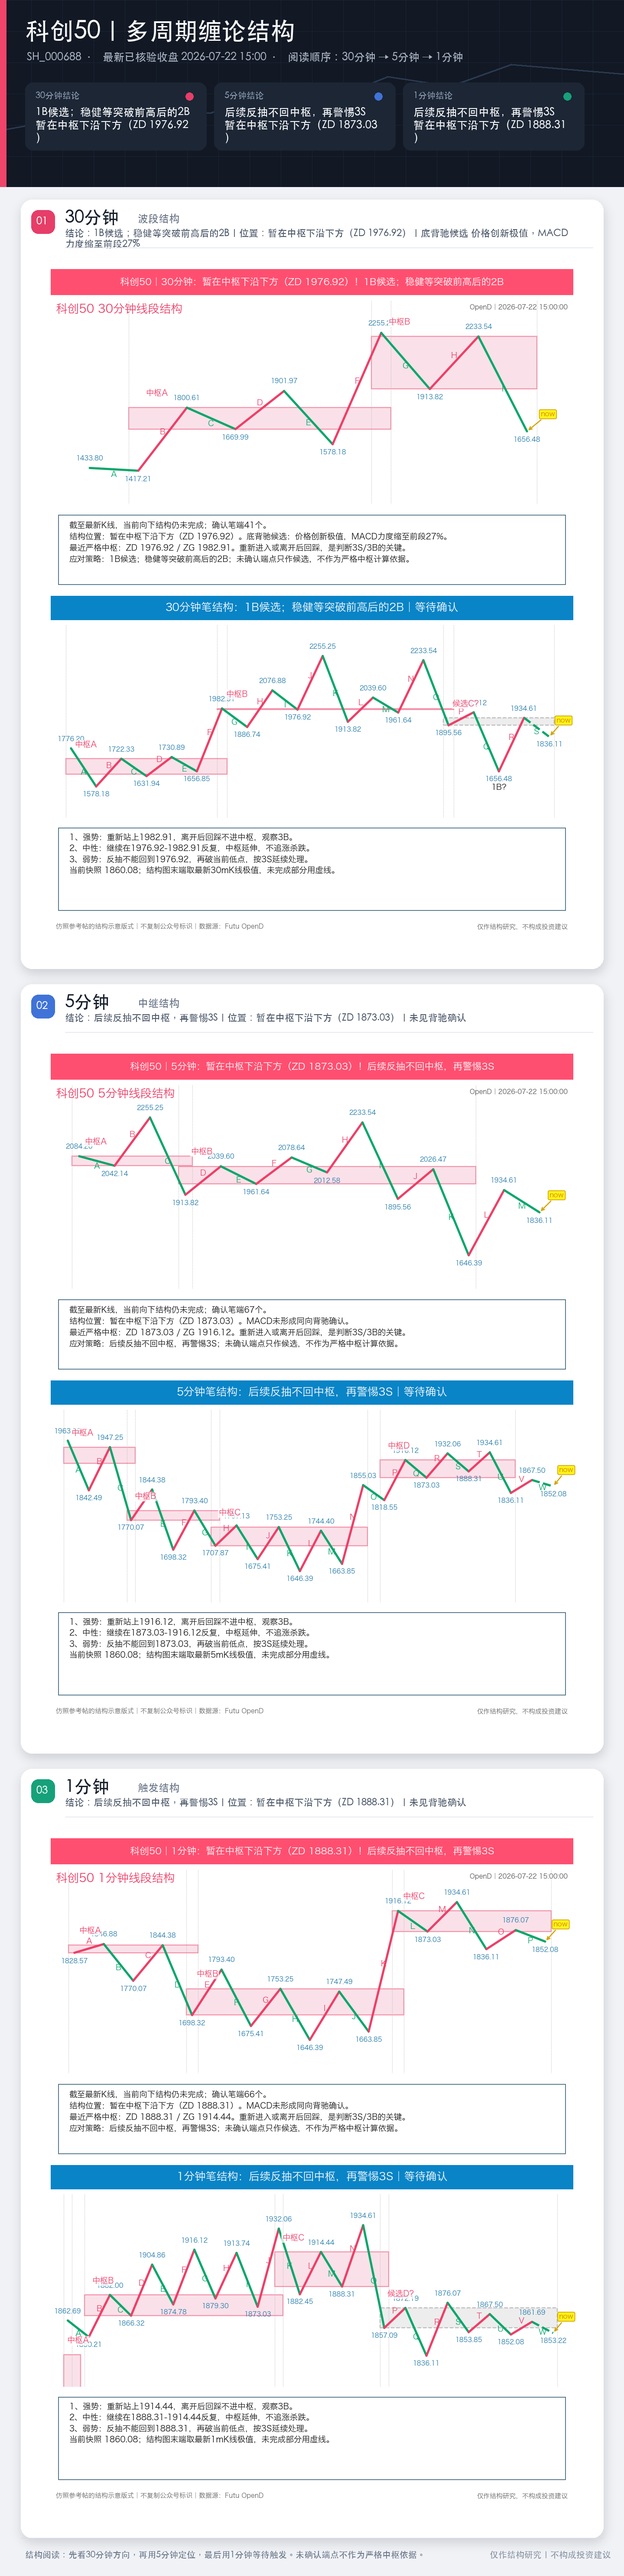
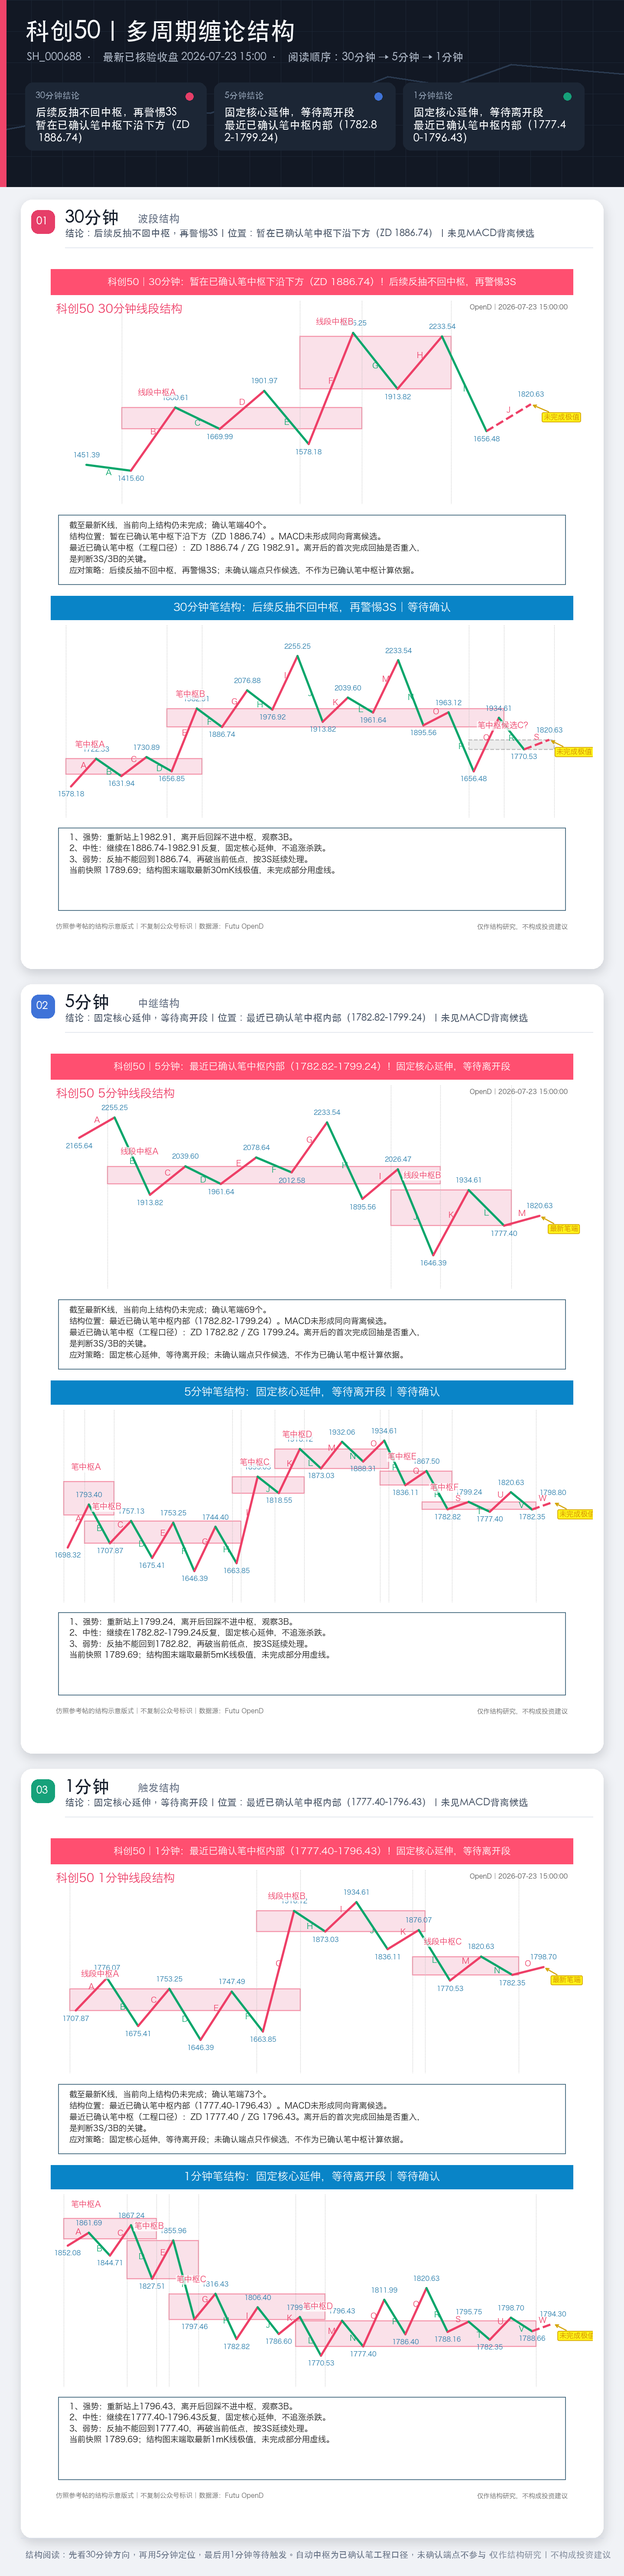
Update chanlun close review for 2026-07-23

diff --git a/chanlun/index.html b/chanlun/index.html
@@ -200,8 +200,8 @@
     <header>
       <h1>A股三指数缠论复盘</h1>
       <div class="sub">
-        <span class="badge">交易日 2026-07-22</span>
-        <span class="badge">339/339 校验通过</span>
+        <span class="badge">交易日 2026-07-23</span>
+        <span class="badge">396/396 校验通过</span>
         <span class="badge">页面每 300 秒自动刷新</span>
       </div>
     </header>
@@ -210,33 +210,33 @@
               <div class="card-head">
                 <div>
                   <h2>上证指数</h2>
-                  <p>SH.000001 · 最新已核验收盘 2026-07-22 15:00:00</p>
+                  <p>SH.000001 · 最新已核验收盘 2026-07-23 15:00:00</p>
                 </div>
                 <div class="price-box">
                   <span>收盘</span>
-                  <strong>3867.03</strong>
+                  <strong>3876.78</strong>
                 </div>
               </div>
-              <img src="SH_000001_30m_5m_1m_combined_chanlun.png?v=1784705990" alt="上证指数 合并图">
+              <img src="SH_000001_30m_5m_1m_combined_chanlun.png?v=1784792322" alt="上证指数 合并图">
               <ul class="signals">
-                <li><b>30m</b><span>1B候选；稳健等突破前高后的2B</span><em>暂在中枢上沿上方（ZG 3828.34）</em></li>
-<li><b>5m</b><span>后续回踩不进中枢，再观察3B</span><em>暂在中枢上沿上方（ZG 3820.77）</em></li>
-<li><b>1m</b><span>后续反抽不回中枢，再警惕3S</span><em>暂在中枢下沿下方（ZD 3870.36）</em></li>
+                <li><b>30m</b><span>后续回踩不进中枢，再观察3B</span><em>暂在已确认笔中枢上沿上方（ZG 3828.34）</em></li>
+<li><b>5m</b><span>MACD顶背离候选；未证明缠论S1</span><em>最近已确认笔中枢内部（3861.26-3882.21）</em></li>
+<li><b>1m</b><span>后续回踩不进中枢，再观察3B</span><em>暂在已确认笔中枢上沿上方（ZG 3869.85）</em></li>
               </ul>
               <div class="analysis">
                 <h3>当前点位分析</h3>
                 <ul>
-                  <li>30分钟当前是“1B候选；稳健等突破前高后的2B”，位置为“暂在中枢上沿上方（ZG 3828.34）”；底背驰候选：价格创新极值，MACD力度缩至前段6%，说明有反抽基础，但还不是确认买点。</li>
-                  <li>5分钟当前是“后续回踩不进中枢，再观察3B”，位置为“暂在中枢上沿上方（ZG 3820.77）”；这里的含义是暂时站在中枢上沿外侧，不等于已经确认3B。</li>
-                  <li>1分钟当前是“后续反抽不回中枢，再警惕3S”，位置为“暂在中枢下沿下方（ZD 3870.36）”；MACD未见同向背驰确认。</li>
+                  <li>30分钟当前是“后续回踩不进中枢，再观察3B”，位置为“暂在已确认笔中枢上沿上方（ZG 3828.34）”；这里的含义是暂时站在中枢上沿外侧，不等于已经确认3B。</li>
+                  <li>5分钟当前信号为“MACD顶背离候选；未证明缠论S1”，位置为“最近已确认笔中枢内部（3861.26-3882.21）”；MACD顶背离候选：价格创新极值，局部MACD面积缩至前段29%；未通过缠论背驰结构门槛。</li>
+                  <li>1分钟当前是“后续回踩不进中枢，再观察3B”，位置为“暂在已确认笔中枢上沿上方（ZG 3869.85）”；这里的含义是暂时站在中枢上沿外侧，不等于已经确认3B。</li>
                 </ul>
               </div>
               <div class="outlook">
-                <h3>下一交易日预案（2026-07-23，节假日顺延）</h3>
+                <h3>下一交易日预案（2026-07-24，节假日顺延）</h3>
                 <ul>
-                  <li>强势修复：先看 1 分钟能否继续站在 3879.21 上方，若后续回踩不进中枢，再上看 5 分钟修复位 3762.86，再强才谈 3820.77 以上的延续。</li>
-                  <li>中性震荡：若主要在 3762.86-3879.21 之间反复，就继续按修复中的箱体震荡看；未重新回到 3762.86 上方前，不把它当反转。</li>
-                  <li>弱势破位：若重新跌回 3879.21 下方且再破今日低点 3839.67，则本轮回抽视为失败，继续等新的 1B/B1；30 分钟未回到 3745.17 附近前，不按主结构修复处理。</li>
+                  <li>强势修复：先看 1 分钟能否继续站在 3869.85 上方，若后续回踩不进中枢，再上看 5 分钟修复位 3861.26，再强才谈 3882.21 以上的延续。</li>
+                  <li>中性震荡：若主要在 3861.26-3869.85 之间反复，就继续按修复中的箱体震荡看；未重新回到 3861.26 上方前，不把它当反转。</li>
+                  <li>弱势破位：若重新跌回 3869.85 下方且再破今日低点 3851.71，则本轮回抽视为失败，继续等新的 1B/B1；30 分钟未回到 3745.17 附近前，不按主结构修复处理。</li>
                 </ul>
               </div>
             </section>
@@ -244,33 +244,33 @@
               <div class="card-head">
                 <div>
                   <h2>创业板指</h2>
-                  <p>SZ.399006 · 最新已核验收盘 2026-07-22 15:00:00</p>
+                  <p>SZ.399006 · 最新已核验收盘 2026-07-23 15:00:00</p>
                 </div>
                 <div class="price-box">
                   <span>收盘</span>
-                  <strong>3566.73</strong>
+                  <strong>3575.52</strong>
                 </div>
               </div>
-              <img src="SZ_399006_30m_5m_1m_combined_chanlun.png?v=1784705990" alt="创业板指 合并图">
+              <img src="SZ_399006_30m_5m_1m_combined_chanlun.png?v=1784792321" alt="创业板指 合并图">
               <ul class="signals">
-                <li><b>30m</b><span>1B候选；稳健等突破前高后的2B</span><em>暂在中枢上沿上方（ZG 3519.68）</em></li>
-<li><b>5m</b><span>后续反抽不回中枢，再警惕3S</span><em>暂在中枢下沿下方（ZD 3641.54）</em></li>
-<li><b>1m</b><span>1B候选；稳健等突破前高后的2B</span><em>暂在中枢下沿下方（ZD 3597.17）</em></li>
+                <li><b>30m</b><span>后续回踩不进中枢，再观察3B</span><em>暂在已确认笔中枢上沿上方（ZG 3519.68）</em></li>
+<li><b>5m</b><span>固定核心延伸，等待离开段</span><em>最近已确认笔中枢内部（3553.37-3621.73）</em></li>
+<li><b>1m</b><span>固定核心延伸，等待离开段</span><em>最近已确认笔中枢内部（3564.57-3577.33）</em></li>
               </ul>
               <div class="analysis">
                 <h3>当前点位分析</h3>
                 <ul>
-                  <li>30分钟当前是“1B候选；稳健等突破前高后的2B”，位置为“暂在中枢上沿上方（ZG 3519.68）”；底背驰候选：价格创新极值，MACD力度缩至前段14%，说明有反抽基础，但还不是确认买点。</li>
-                  <li>5分钟当前是“后续反抽不回中枢，再警惕3S”，位置为“暂在中枢下沿下方（ZD 3641.54）”；MACD未见同向背驰确认。</li>
-                  <li>1分钟当前是“1B候选；稳健等突破前高后的2B”，位置为“暂在中枢下沿下方（ZD 3597.17）”；底背驰候选：价格创新极值，MACD力度缩至前段59%，说明有反抽基础，但还不是确认买点。</li>
+                  <li>30分钟当前是“后续回踩不进中枢，再观察3B”，位置为“暂在已确认笔中枢上沿上方（ZG 3519.68）”；这里的含义是暂时站在中枢上沿外侧，不等于已经确认3B。</li>
+                  <li>5分钟当前信号为“固定核心延伸，等待离开段”，位置为“最近已确认笔中枢内部（3553.37-3621.73）”；MACD未见同向背离候选。</li>
+                  <li>1分钟当前信号为“固定核心延伸，等待离开段”，位置为“最近已确认笔中枢内部（3564.57-3577.33）”；MACD未见同向背离候选。</li>
                 </ul>
               </div>
               <div class="outlook">
-                <h3>下一交易日预案（2026-07-23，节假日顺延）</h3>
+                <h3>下一交易日预案（2026-07-24，节假日顺延）</h3>
                 <ul>
-                  <li>强势修复：先看 1 分钟能否继续站在 3598.64 上方，若后续回踩不进中枢，再上看 5 分钟修复位 3641.54，再强才谈 3682.07 以上的延续。</li>
-                  <li>中性震荡：若主要在 3598.64-3641.54 之间反复，就继续按修复中的箱体震荡看；未重新回到 3641.54 上方前，不把它当反转。</li>
-                  <li>弱势破位：若重新跌回 3598.64 下方且再破今日低点 3553.37，则本轮回抽视为失败，继续等新的 1B/B1；30 分钟未回到 3387.26 附近前，不按主结构修复处理。</li>
+                  <li>强势修复：先看 1 分钟能否继续站在 3577.33 上方，若后续回踩不进中枢，再上看 5 分钟修复位 3553.37，再强才谈 3621.73 以上的延续。</li>
+                  <li>中性震荡：若主要在 3553.37-3577.33 之间反复，就继续按修复中的箱体震荡看；未重新回到 3553.37 上方前，不把它当反转。</li>
+                  <li>弱势破位：若重新跌回 3577.33 下方且再破今日低点 3538.11，则本轮回抽视为失败，继续等新的 1B/B1；30 分钟未回到 3387.26 附近前，不按主结构修复处理。</li>
                 </ul>
               </div>
             </section>
@@ -278,33 +278,33 @@
               <div class="card-head">
                 <div>
                   <h2>科创50</h2>
-                  <p>SH.000688 · 最新已核验收盘 2026-07-22 15:00:00</p>
+                  <p>SH.000688 · 最新已核验收盘 2026-07-23 15:00:00</p>
                 </div>
                 <div class="price-box">
                   <span>收盘</span>
-                  <strong>1860.08</strong>
+                  <strong>1789.69</strong>
                 </div>
               </div>
-              <img src="SH_000688_30m_5m_1m_combined_chanlun.png?v=1784705990" alt="科创50 合并图">
+              <img src="SH_000688_30m_5m_1m_combined_chanlun.png?v=1784792321" alt="科创50 合并图">
               <ul class="signals">
-                <li><b>30m</b><span>1B候选；稳健等突破前高后的2B</span><em>暂在中枢下沿下方（ZD 1976.92）</em></li>
-<li><b>5m</b><span>后续反抽不回中枢，再警惕3S</span><em>暂在中枢下沿下方（ZD 1873.03）</em></li>
-<li><b>1m</b><span>后续反抽不回中枢，再警惕3S</span><em>暂在中枢下沿下方（ZD 1888.31）</em></li>
+                <li><b>30m</b><span>后续反抽不回中枢，再警惕3S</span><em>暂在已确认笔中枢下沿下方（ZD 1886.74）</em></li>
+<li><b>5m</b><span>固定核心延伸，等待离开段</span><em>最近已确认笔中枢内部（1782.82-1799.24）</em></li>
+<li><b>1m</b><span>固定核心延伸，等待离开段</span><em>最近已确认笔中枢内部（1777.40-1796.43）</em></li>
               </ul>
               <div class="analysis">
                 <h3>当前点位分析</h3>
                 <ul>
-                  <li>30分钟当前是“1B候选；稳健等突破前高后的2B”，位置为“暂在中枢下沿下方（ZD 1976.92）”；底背驰候选：价格创新极值，MACD力度缩至前段27%，说明有反抽基础，但还不是确认买点。</li>
-                  <li>5分钟当前是“后续反抽不回中枢，再警惕3S”，位置为“暂在中枢下沿下方（ZD 1873.03）”；MACD未见同向背驰确认。</li>
-                  <li>1分钟当前是“后续反抽不回中枢，再警惕3S”，位置为“暂在中枢下沿下方（ZD 1888.31）”；MACD未见同向背驰确认。</li>
+                  <li>30分钟当前是“后续反抽不回中枢，再警惕3S”，位置为“暂在已确认笔中枢下沿下方（ZD 1886.74）”；MACD未见同向背离候选。</li>
+                  <li>5分钟当前信号为“固定核心延伸，等待离开段”，位置为“最近已确认笔中枢内部（1782.82-1799.24）”；MACD未见同向背离候选。</li>
+                  <li>1分钟当前信号为“固定核心延伸，等待离开段”，位置为“最近已确认笔中枢内部（1777.40-1796.43）”；MACD未见同向背离候选。</li>
                 </ul>
               </div>
               <div class="outlook">
-                <h3>下一交易日预案（2026-07-23，节假日顺延）</h3>
+                <h3>下一交易日预案（2026-07-24，节假日顺延）</h3>
                 <ul>
-                  <li>强势修复：先看 1 分钟能否继续站在 1914.44 上方，若后续回踩不进中枢，再上看 5 分钟修复位 1873.03，再强才谈 1916.12 以上的延续。</li>
-                  <li>中性震荡：若主要在 1873.03-1914.44 之间反复，就继续按修复中的箱体震荡看；未重新回到 1873.03 上方前，不把它当反转。</li>
-                  <li>弱势破位：若重新跌回 1914.44 下方且再破今日低点 1836.11，则本轮回抽视为失败，继续等新的 1B/B1；30 分钟未回到 1976.92 附近前，不按主结构修复处理。</li>
+                  <li>强势修复：先看 1 分钟能否继续站在 1796.43 上方，若后续回踩不进中枢，再上看 5 分钟修复位 1782.82，再强才谈 1799.24 以上的延续。</li>
+                  <li>中性震荡：若主要在 1782.82-1796.43 之间反复，就继续按修复中的箱体震荡看；未重新回到 1782.82 上方前，不把它当反转。</li>
+                  <li>弱势破位：若重新跌回 1796.43 下方且再破今日低点 1770.53，则本轮回抽视为失败，继续等新的 1B/B1；30 分钟未回到 1886.74 附近前，不按主结构修复处理。</li>
                 </ul>
               </div>
             </section>
